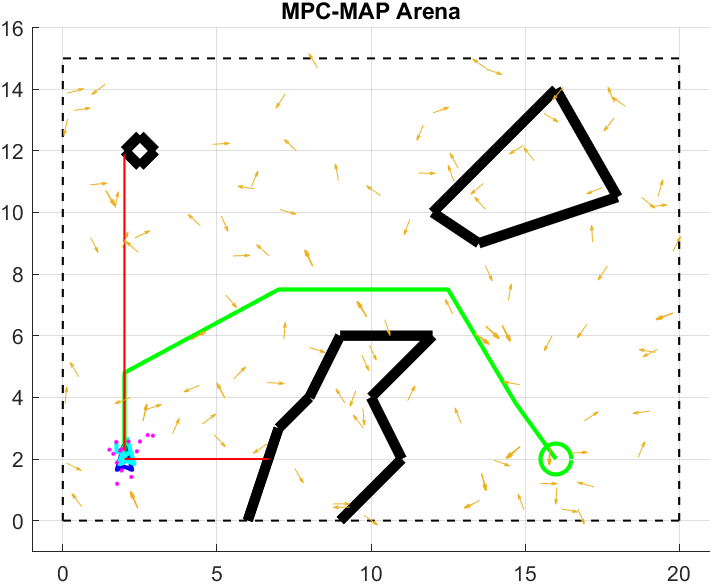
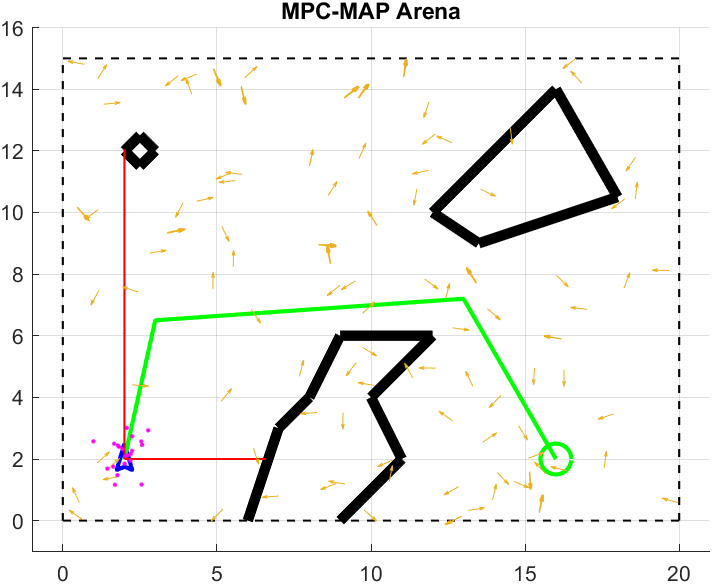
week_5 task 1 update

diff --git a/algorithms/kalman_filter/update_kalman_filter.m b/algorithms/kalman_filter/update_kalman_filter.m
@@ -1,52 +1,59 @@
-function [mu, sigma, kf] = update_kalman_filter(read_only_vars, public_vars)
+function [mu, sigma] = update_kalman_filter(read_only_vars, public_vars)
 %UPDATE_KALMAN_FILTER Summary of this function goes here
 
 mu = public_vars.mu;
 sigma = public_vars.sigma;
-kf = public_vars.kf;
 
-% Task 1: initialization from GNSS mean/covariance.
-if isfield(kf, 'init') && ~kf.init.done
-	if all(isfinite(read_only_vars.gnss_position))
-		samples = [kf.init.gnss_samples; read_only_vars.gnss_position];
-		kf.init.gnss_samples = samples;
+% Task 1: estimate initial belief from GNSS while the robot is stationary.
+required_samples = 80;
+if isfield(public_vars, 'kf') && isfield(public_vars.kf, 'gnss_init_required')
+	required_samples = public_vars.kf.gnss_init_required;
+end
+
+gnss_samples = zeros(0, 2);
+if isfield(read_only_vars, 'gnss_history') && ~isempty(read_only_vars.gnss_history)
+	gnss_samples = read_only_vars.gnss_history(:, 1:2);
+elseif isfield(read_only_vars, 'gnss_position') && numel(read_only_vars.gnss_position) >= 2
+	gnss_samples = read_only_vars.gnss_position(1:2);
+end
+
+if ~isempty(gnss_samples)
+	gnss_samples = gnss_samples(all(isfinite(gnss_samples), 2), :);
+end
+
+if size(gnss_samples, 1) < required_samples
+	if isempty(gnss_samples)
+		mu_xy = [2.0, 2.0];
+		cov_xy = diag([1.0, 1.0]);
+	elseif size(gnss_samples, 1) == 1
+		mu_xy = gnss_samples(1, :);
+		cov_xy = diag([0.35, 0.35].^2);
 	else
-		samples = kf.init.gnss_samples;
+		mu_xy = mean(gnss_samples, 1);
+		cov_xy = cov(gnss_samples);
 	end
 
-	n = size(samples, 1);
-	if n >= 1
-		mu_xy = mean(samples, 1);
-	else
-		mu_xy = mu(1:2);
-	end
-
-	if n >= kf.init.required_samples
-		cov_xy = cov(samples, 1);
-		cov_xy = cov_xy + 1e-6 * eye(2);
-
-		mu = [mu_xy, pi/2];
-		sigma = [cov_xy, zeros(2,1); 0, 0, pi^2];
-		kf.Q = cov_xy;
-		kf.init.done = true;
-
-		fprintf('KF init done with %d GNSS samples. mean=[%.3f %.3f], cov=%s\n', ...
-			n, mu_xy(1), mu_xy(2), mat2str(cov_xy, 4));
-	else
-		mu = [mu_xy, pi/2];
-		sigma = diag([1.0, 1.0, pi^2]);
-	end
-
+	mu = [mu_xy(1); mu_xy(2); 0.0];
+	sigma = [cov_xy, [0; 0]; 0, 0, (pi)^2];
 	return;
+end
+
+if size(gnss_samples, 1) == required_samples
+	mu_xy = mean(gnss_samples, 1);
+	cov_xy = cov(gnss_samples);
+	fprintf('GNSS initialization complete.\n');
+	fprintf('Mean: [%.4f %.4f]\n', mu_xy(1), mu_xy(2));
+	fprintf('Covariance matrix:\n');
+	disp(cov_xy);
 end
 
 % I. Prediction
 u = [];
-[mu, sigma] = ekf_predict(mu, sigma, u, kf, read_only_vars.sampling_period);
+[mu, sigma] = ekf_predict(mu, sigma, u, public_vars.kf, read_only_vars.sampling_period);
 
 % II. Measurement
 z = [];
-[mu, sigma] = kf_measure(mu, sigma, z, kf);
+[mu, sigma] = kf_measure(mu, sigma, z, public_vars.kf);
 
 end
 

diff --git a/algorithms/path_planning/plan_path.m b/algorithms/path_planning/plan_path.m
@@ -2,31 +2,33 @@ function [path] = plan_path(read_only_vars, public_vars)
 %PLAN_PATH Summary of this function goes here
 
 if read_only_vars.counter == 1 || isempty(public_vars.path)
-    % Task 1: hand-crafted route on outdoor_1 from [2, 2] to [16, 2].
+    if isfield(read_only_vars, 'map') && isfield(read_only_vars.map, 'goal') && numel(read_only_vars.map.goal) >= 2
+        end_point = read_only_vars.map.goal(1:2);
+    else
+        end_point = [16.0, 2.0];
+    end
+
+    % Task 1: simple manually designed trajectory for outdoor_1 map.
     waypoints = [
         2.0, 2.0;
-        2.0, 4.8;
-        7.0, 7.5;
-        12.5, 7.5;
-        14.7, 3.8;
-        16.0, 2.0
+        3.0, 6.5;
+        13.0, 7.2;
+        end_point(1), end_point(2)
     ];
 
-    segment_step = 0.25;
-    path = waypoints(1, :);
-
-    for i = 1:size(waypoints, 1)-1
-        p0 = waypoints(i, :);
-        p1 = waypoints(i+1, :);
-        d = norm(p1 - p0, 2);
-        n = max(2, ceil(d / segment_step) + 1);
-
-        x = linspace(p0(1), p1(1), n)';
-        y = linspace(p0(2), p1(2), n)';
-        segment = [x, y];
-
-        % Skip the first sample to prevent duplicates between segments.
-        path = [path; segment(2:end, :)]; %#ok<AGROW>
+    points_per_segment = 20;
+    total_points = points_per_segment + (size(waypoints, 1) - 2) * (points_per_segment - 1);
+    path = zeros(total_points, 2);
+    write_idx = 1;
+    for i = 1 : size(waypoints, 1) - 1
+        t = linspace(0, 1, points_per_segment)';
+        segment = (1 - t) .* waypoints(i, :) + t .* waypoints(i + 1, :);
+        if i > 1
+            segment = segment(2:end, :);
+        end
+        segment_len = size(segment, 1);
+        path(write_idx:write_idx + segment_len - 1, :) = segment;
+        write_idx = write_idx + segment_len;
     end
 else
     path = public_vars.path;

diff --git a/algorithms/kalman_filter/init_kalman_filter.m b/algorithms/kalman_filter/init_kalman_filter.m
@@ -1,17 +1,41 @@
-function [public_vars] = init_kalman_filter(~, public_vars)
+function [public_vars] = init_kalman_filter(read_only_vars, public_vars)
 %INIT_KALMAN_FILTER Summary of this function goes here
 
 public_vars.kf.C = [1, 0, 0; 0, 1, 0];
-public_vars.kf.R = diag([0.01, 0.01, 0.01]);
-public_vars.kf.Q = diag([0.1, 0.1]);
+public_vars.kf.R = diag([0.10, 0.10, deg2rad(10)].^2);
+public_vars.kf.Q = diag([0.35, 0.35].^2);
+public_vars.kf.L = read_only_vars.agent_drive.interwheel_dist;
+public_vars.kf.gnss_init_required = 80;
 
-% Task 1: gather GNSS samples while standing still and estimate mean/cov.
-public_vars.kf.init.required_samples = 80;
-public_vars.kf.init.gnss_samples = zeros(0, 2);
-public_vars.kf.init.done = false;
+gnss_samples = zeros(0, 2);
+if isfield(read_only_vars, 'gnss_history') && ~isempty(read_only_vars.gnss_history)
+	gnss_samples = read_only_vars.gnss_history(:, 1:2);
+elseif isfield(read_only_vars, 'gnss_position') && numel(read_only_vars.gnss_position) >= 2
+	gnss_samples = read_only_vars.gnss_position(1:2);
+end
 
-public_vars.mu = [2.0, 2.0, pi/2];
-public_vars.sigma = diag([1.0, 1.0, pi^2]);
+if ~isempty(gnss_samples)
+	valid_rows = all(isfinite(gnss_samples), 2);
+	gnss_samples = gnss_samples(valid_rows, :);
+end
+
+if isempty(gnss_samples)
+	mu_xy = [2.0, 2.0];
+	cov_xy = diag([1.0, 1.0]);
+elseif size(gnss_samples, 1) == 1
+	mu_xy = gnss_samples(1, :);
+	cov_xy = diag([0.35, 0.35].^2);
+else
+	mu_xy = mean(gnss_samples, 1);
+	cov_xy = cov(gnss_samples);
+end
+
+public_vars.kf.gnss_init_mean = mu_xy;
+public_vars.kf.gnss_init_cov = cov_xy;
+public_vars.kf.gnss_init_samples = size(gnss_samples, 1);
+
+public_vars.mu = [mu_xy(1); mu_xy(2); 0.0];
+public_vars.sigma = [cov_xy, [0; 0]; 0, 0, (pi)^2];
 
 end
 

diff --git a/algorithms/motion_control/plan_motion.m b/algorithms/motion_control/plan_motion.m
@@ -1,8 +1,20 @@
 function [public_vars] = plan_motion(read_only_vars, public_vars)
 %PLAN_MOTION Task 3: simple path-following with MoCap pose.
 
-% Keep the robot still while collecting GNSS samples for KF initialization.
-if isfield(public_vars, 'kf') && isfield(public_vars.kf, 'init') && ~public_vars.kf.init.done
+required_samples = 80;
+if isfield(public_vars, 'kf') && isfield(public_vars.kf, 'gnss_init_required')
+	required_samples = public_vars.kf.gnss_init_required;
+end
+
+if isfield(read_only_vars, 'gnss_history') && ~isempty(read_only_vars.gnss_history)
+	valid_count = sum(all(isfinite(read_only_vars.gnss_history(:, 1:2)), 2));
+elseif isfield(read_only_vars, 'gnss_position') && numel(read_only_vars.gnss_position) >= 2 && all(isfinite(read_only_vars.gnss_position(1:2)))
+	valid_count = 1;
+else
+	valid_count = 0;
+end
+
+if valid_count < required_samples
 	public_vars.motion_vector = [0.0, 0.0];
 	return;
 end

diff --git a/algorithms/estimate_pose.m b/algorithms/estimate_pose.m
@@ -1,18 +1,7 @@
 function [estimated_pose] = estimate_pose(public_vars)
 %ESTIMATE_POSE Summary of this function goes here
 
-if isfield(public_vars, 'mu') && numel(public_vars.mu) == 3 && all(isfinite(public_vars.mu))
-	estimated_pose = public_vars.mu;
-	return;
-end
-
-if isfield(public_vars, 'particles') && ~isempty(public_vars.particles) && size(public_vars.particles, 2) >= 3
-	mean_theta = atan2(mean(sin(public_vars.particles(:,3))), mean(cos(public_vars.particles(:,3))));
-	estimated_pose = [mean(public_vars.particles(:,1:2), 1), mean_theta];
-	return;
-end
-
-estimated_pose = [nan, nan, nan];
+estimated_pose = nan(1,3);
 
 end
 

diff --git a/algorithms/student_workspace.m b/algorithms/student_workspace.m
@@ -13,7 +13,7 @@ end
 public_vars.particles = update_particle_filter(read_only_vars, public_vars);
 
 % 10. Update Kalman filter
-[public_vars.mu, public_vars.sigma, public_vars.kf] = update_kalman_filter(read_only_vars, public_vars);
+[public_vars.mu, public_vars.sigma] = update_kalman_filter(read_only_vars, public_vars);
 
 % 11. Estimate current robot position
 public_vars.estimated_pose = estimate_pose(public_vars); % (x,y,theta)

diff --git a/algorithms/setup.m b/algorithms/setup.m
@@ -1,3 +1,3 @@
-start_position = [2.0, 2.0, pi/2]; % (x, y, theta)
+start_position = [2, 2, pi/2]; % (x, y, theta)
 
 map_name = 'maps/outdoor_1.txt';

diff --git a/report/Week 5.md b/report/Week 5.md
@@ -14,14 +14,18 @@ The trajectory was defined by hand-selected waypoints.
 
 ![](images/createdPath.png)
 
-At the same time, I implemented the initialization procedure for the Kalman filter based on GNSS measurements.
+I implemented the initialization procedure for the Kalman filter based on GNSS measurements.
 
 The robot remains stationary at the beginning and collects 80 GNSS samples. From these samples, the initial position mean and covariance matrix are computed and used as the initial belief for the EKF/KF pipeline.
 
 Measured initialization result:
 
 ```text
-KF init done with 80 GNSS samples. mean=[2.005 2.037], cov=[0.2144 0.01246;0.01246 0.1868]
+GNSS initialization complete.
+Mean: [2.0115 1.9281]
+Covariance matrix:
+  0.2490   -0.0023
+   -0.0023    0.1793
 ```
 
 The estimated initial position is close to the true start pose, and the covariance matrix captures the GNSS uncertainty in both axes including a small correlation term.
